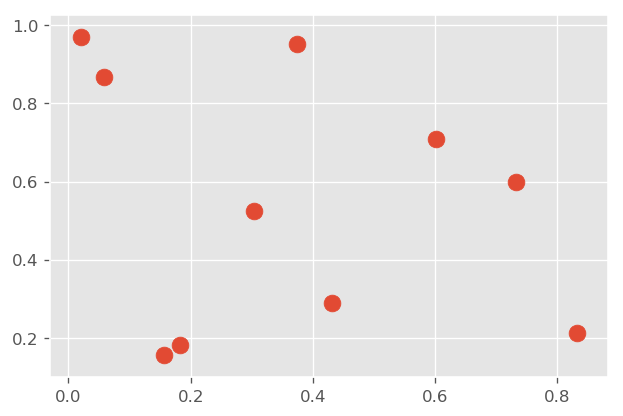
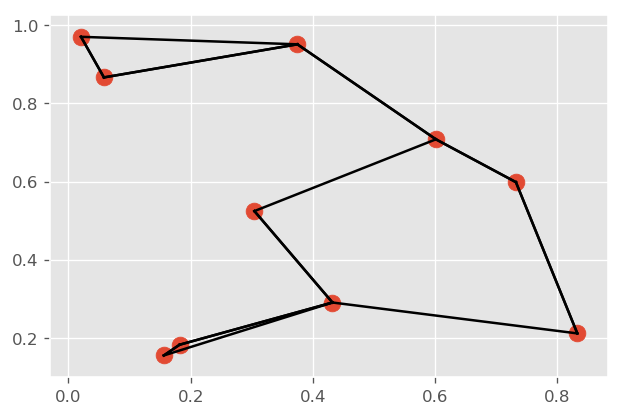
update

diff --git a/pyds/notes.html b/pyds/notes.html
@@ -3,7 +3,7 @@
 "http://www.w3.org/TR/xhtml1/DTD/xhtml1-strict.dtd">
 <html xmlns="http://www.w3.org/1999/xhtml" lang="en" xml:lang="en">
 <head>
-<!-- 2018-04-21 Sat 22:24 -->
+<!-- 2018-04-21 Sat 22:56 -->
 <meta http-equiv="Content-Type" content="text/html;charset=utf-8" />
 <meta name="viewport" content="width=device-width, initial-scale=1" />
 <title>Python Data Science Handbook Notes</title>
@@ -329,43 +329,43 @@ for the JavaScript code in this tag.
 <h2>Table of Contents</h2>
 <div id="text-table-of-contents">
 <ul>
-<li><a href="#org5e1a30f">1. IPython</a>
+<li><a href="#orgf516cee">1. IPython</a>
 <ul>
-<li><a href="#orga19ef22">1.1. Shell commands</a></li>
-<li><a href="#org2b87a21">1.2. Debugger</a></li>
-<li><a href="#org923cd46">1.3. Timing</a></li>
+<li><a href="#orgbf66e8a">1.1. Shell commands</a></li>
+<li><a href="#orgf8206cc">1.2. Debugger</a></li>
+<li><a href="#org095a434">1.3. Timing</a></li>
 </ul>
 </li>
-<li><a href="#org868f76b">2. NumPy</a>
+<li><a href="#org7a011ed">2. NumPy</a>
 <ul>
-<li><a href="#org68ab72f">2.1. Array creating functions</a></li>
-<li><a href="#orgfc00081">2.2. Array attributes</a></li>
-<li><a href="#org9d28bed">2.3. Array slicing</a></li>
-<li><a href="#org078ca38">2.4. Change dimension</a></li>
-<li><a href="#org7d7d9aa">2.5. Merging and splitting</a></li>
-<li><a href="#org4d69105">2.6. Specify output container</a></li>
-<li><a href="#orgf18578c">2.7. reduce() and accumulate()</a></li>
-<li><a href="#org40e301c">2.8. Sort and index sort</a></li>
-<li><a href="#org8cb0155">2.9. Example: k-Nearest Neighbors</a></li>
+<li><a href="#org076f5ef">2.1. Array creating functions</a></li>
+<li><a href="#org7181f49">2.2. Array attributes</a></li>
+<li><a href="#orgc4fee55">2.3. Array slicing</a></li>
+<li><a href="#org0a2b52f">2.4. Change dimension</a></li>
+<li><a href="#orgb30ce69">2.5. Merging and splitting</a></li>
+<li><a href="#orgcdfc836">2.6. Specify output container</a></li>
+<li><a href="#orge743cb4">2.7. reduce() and accumulate()</a></li>
+<li><a href="#org417189a">2.8. Sort and index sort</a></li>
+<li><a href="#orgf2564cf">2.9. Example: k-Nearest Neighbors</a></li>
 </ul>
 </li>
-<li><a href="#orgbaabbf3">3. Org-mode tricks</a>
+<li><a href="#org2cb631e">3. Org-mode tricks</a>
 <ul>
-<li><a href="#org109cfe2">3.1. Inline LaTeX</a></li>
-<li><a href="#org560753b">3.2. Output LaTex from code blocks</a></li>
-<li><a href="#org6330cb4">3.3. Ploting</a></li>
+<li><a href="#org1067474">3.1. Inline LaTeX</a></li>
+<li><a href="#orgf757acd">3.2. Output LaTex from code blocks</a></li>
+<li><a href="#orgbbbf950">3.3. Ploting</a></li>
 </ul>
 </li>
 </ul>
 </div>
 </div>
 
-<div id="outline-container-org5e1a30f" class="outline-2">
-<h2 id="org5e1a30f"><span class="section-number-2">1</span> IPython</h2>
+<div id="outline-container-orgf516cee" class="outline-2">
+<h2 id="orgf516cee"><span class="section-number-2">1</span> IPython</h2>
 <div class="outline-text-2" id="text-1">
 </div>
-<div id="outline-container-orga19ef22" class="outline-3">
-<h3 id="orga19ef22"><span class="section-number-3">1.1</span> Shell commands</h3>
+<div id="outline-container-orgbf66e8a" class="outline-3">
+<h3 id="orgbf66e8a"><span class="section-number-3">1.1</span> Shell commands</h3>
 <div class="outline-text-3" id="text-1-1">
 <p>
 All shell commands can be used with <code>!</code> prefix.  Results can be assigned to
@@ -381,14 +381,14 @@ files
 </div>
 
 <pre class="example">
-['notes.org', 'obipy']
+['notes.html', 'notes.org', 'obipy']
 
 </pre>
 </div>
 </div>
 
-<div id="outline-container-org2b87a21" class="outline-3">
-<h3 id="org2b87a21"><span class="section-number-3">1.2</span> Debugger</h3>
+<div id="outline-container-orgf8206cc" class="outline-3">
+<h3 id="orgf8206cc"><span class="section-number-3">1.2</span> Debugger</h3>
 <div class="outline-text-3" id="text-1-2">
 <p>
 <code>%debug</code> to enter debugger on last exception
@@ -396,8 +396,8 @@ files
 </div>
 </div>
 
-<div id="outline-container-org923cd46" class="outline-3">
-<h3 id="org923cd46"><span class="section-number-3">1.3</span> Timing</h3>
+<div id="outline-container-org095a434" class="outline-3">
+<h3 id="org095a434"><span class="section-number-3">1.3</span> Timing</h3>
 <div class="outline-text-3" id="text-1-3">
 <ul class="org-ul">
 <li><code>%timeit</code> - one line, may run multiple times for short functions</li>
@@ -410,12 +410,12 @@ files
 </div>
 </div>
 
-<div id="outline-container-org868f76b" class="outline-2">
-<h2 id="org868f76b"><span class="section-number-2">2</span> NumPy</h2>
+<div id="outline-container-org7a011ed" class="outline-2">
+<h2 id="org7a011ed"><span class="section-number-2">2</span> NumPy</h2>
 <div class="outline-text-2" id="text-2">
 </div>
-<div id="outline-container-org68ab72f" class="outline-3">
-<h3 id="org68ab72f"><span class="section-number-3">2.1</span> Array creating functions</h3>
+<div id="outline-container-org076f5ef" class="outline-3">
+<h3 id="org076f5ef"><span class="section-number-3">2.1</span> Array creating functions</h3>
 <div class="outline-text-3" id="text-2-1">
 <ul class="org-ul">
 <li><code>np.zeros(10, dtype=int)</code></li>
@@ -431,8 +431,8 @@ files
 </ul>
 </div>
 </div>
-<div id="outline-container-orgfc00081" class="outline-3">
-<h3 id="orgfc00081"><span class="section-number-3">2.2</span> Array attributes</h3>
+<div id="outline-container-org7181f49" class="outline-3">
+<h3 id="org7181f49"><span class="section-number-3">2.2</span> Array attributes</h3>
 <div class="outline-text-3" id="text-2-2">
 <div class="org-src-container">
 <pre class="src src-ipython"><span style="color: #f8f8f2;">x3</span> = np.random.randint(10, size=(3, 4, 5))
@@ -457,8 +457,8 @@ x3 nbytes 240
 </div>
 </div>
 
-<div id="outline-container-org9d28bed" class="outline-3">
-<h3 id="org9d28bed"><span class="section-number-3">2.3</span> Array slicing</h3>
+<div id="outline-container-orgc4fee55" class="outline-3">
+<h3 id="orgc4fee55"><span class="section-number-3">2.3</span> Array slicing</h3>
 <div class="outline-text-3" id="text-2-3">
 <p>
 Slicing returns a <b>view</b> into the original. No copy is made.
@@ -545,8 +545,8 @@ array([[2, 0],
 </div>
 </div>
 
-<div id="outline-container-org078ca38" class="outline-3">
-<h3 id="org078ca38"><span class="section-number-3">2.4</span> Change dimension</h3>
+<div id="outline-container-org0a2b52f" class="outline-3">
+<h3 id="org0a2b52f"><span class="section-number-3">2.4</span> Change dimension</h3>
 <div class="outline-text-3" id="text-2-4">
 <p>
 With <code>.reshape()</code>
@@ -601,8 +601,8 @@ array([[1],
 </div>
 </div>
 
-<div id="outline-container-org7d7d9aa" class="outline-3">
-<h3 id="org7d7d9aa"><span class="section-number-3">2.5</span> Merging and splitting</h3>
+<div id="outline-container-orgb30ce69" class="outline-3">
+<h3 id="orgb30ce69"><span class="section-number-3">2.5</span> Merging and splitting</h3>
 <div class="outline-text-3" id="text-2-5">
 <div class="org-src-container">
 <pre class="src src-ipython">np.concatenate([x2, x2]) <span style="color: #6272a4;"># </span><span style="color: #6272a4;">or np.vstack()</span>
@@ -646,8 +646,8 @@ np.split(x, [3, 5]) <span style="color: #6272a4;"># </span><span style="color: #
 </div>
 </div>
 
-<div id="outline-container-org4d69105" class="outline-3">
-<h3 id="org4d69105"><span class="section-number-3">2.6</span> Specify output container</h3>
+<div id="outline-container-orgcdfc836" class="outline-3">
+<h3 id="orgcdfc836"><span class="section-number-3">2.6</span> Specify output container</h3>
 <div class="outline-text-3" id="text-2-6">
 <p>
 To avoid creating temporaries.
@@ -685,8 +685,8 @@ array([  1.,   0.,   2.,   0.,   4.,   0.,   8.,   0.,  16.,   0.])
 </div>
 </div>
 
-<div id="outline-container-orgf18578c" class="outline-3">
-<h3 id="orgf18578c"><span class="section-number-3">2.7</span> reduce() and accumulate()</h3>
+<div id="outline-container-orge743cb4" class="outline-3">
+<h3 id="orge743cb4"><span class="section-number-3">2.7</span> reduce() and accumulate()</h3>
 <div class="outline-text-3" id="text-2-7">
 <p>
 ufuncs supports <code>reduce()</code> and <code>accumulate()</code>
@@ -723,8 +723,8 @@ array([ 1,  3,  6, 10, 15], dtype=int32)
 </div>
 </div>
 
-<div id="outline-container-org40e301c" class="outline-3">
-<h3 id="org40e301c"><span class="section-number-3">2.8</span> Sort and index sort</h3>
+<div id="outline-container-org417189a" class="outline-3">
+<h3 id="org417189a"><span class="section-number-3">2.8</span> Sort and index sort</h3>
 <div class="outline-text-3" id="text-2-8">
 <p>
 <code>np.sort()</code> returns new copy of sorted array.
@@ -761,38 +761,23 @@ array([1, 0, 3, 2, 4], dtype=int64)
 </div>
 </div>
 
-<div id="outline-container-org8cb0155" class="outline-3">
-<h3 id="org8cb0155"><span class="section-number-3">2.9</span> Example: k-Nearest Neighbors</h3>
+<div id="outline-container-orgf2564cf" class="outline-3">
+<h3 id="orgf2564cf"><span class="section-number-3">2.9</span> Example: k-Nearest Neighbors</h3>
 <div class="outline-text-3" id="text-2-9">
 <p>
 <a href="https://jakevdp.github.io/PythonDataScienceHandbook/02.08-sorting.html">https://jakevdp.github.io/PythonDataScienceHandbook/02.08-sorting.html</a>
 </p>
 
-<p>
-Create 10 random points.
-</p>
+<ul class="org-ul">
+<li>Create 10 random points.</li>
+<li>Compute the distance between each pair of points.</li>
+<li>Take the 2 left most columns.</li>
+</ul>
 
 <div class="org-src-container">
 <pre class="src src-ipython">np.random.seed(42)
 <span style="color: #f8f8f2;">X</span> = np.random.rand(10, 2)
-plt.scatter(X[:, 0], X[:, 1], s=100);
-</pre>
-</div>
-
-
-<div class="figure">
-<p><img src="./obipy/dmv85B.png" alt="dmv85B.png" />
-</p>
-</div>
-
-
-<p>
-Compute the distance between each pair of points.
-Take the 2 left most columns.
-</p>
-
-<div class="org-src-container">
-<pre class="src src-ipython"><span style="color: #f8f8f2;">dist_sq</span> = np.<span style="color: #ffb86c;">sum</span>((X[:, np.newaxis, :] - X[np.newaxis, :, :]) ** 2, axis=-1)
+<span style="color: #f8f8f2;">dist_sq</span> = np.<span style="color: #ffb86c;">sum</span>((X[:, np.newaxis, :] - X[np.newaxis, :, :]) ** 2, axis=-1)
 <span style="color: #f8f8f2;">K</span> = 2
 <span style="color: #f8f8f2;">nearest_partition</span> = np.argpartition(dist_sq, K + 1, axis=1)
 plt.scatter(X[:, 0], X[:, 1], s=100)
@@ -806,7 +791,7 @@ plt.scatter(X[:, 0], X[:, 1], s=100)
 
 
 <div class="figure">
-<p><img src="./obipy/Fmmxx1.png" alt="Fmmxx1.png" />
+<p><img src="./obipy/dmv85B.png" alt="dmv85B.png" />
 </p>
 </div>
 </div>
@@ -814,12 +799,12 @@ plt.scatter(X[:, 0], X[:, 1], s=100)
 </div>
 
 
-<div id="outline-container-orgbaabbf3" class="outline-2">
-<h2 id="orgbaabbf3"><span class="section-number-2">3</span> Org-mode tricks</h2>
+<div id="outline-container-org2cb631e" class="outline-2">
+<h2 id="org2cb631e"><span class="section-number-2">3</span> Org-mode tricks</h2>
 <div class="outline-text-2" id="text-3">
 </div>
-<div id="outline-container-org109cfe2" class="outline-3">
-<h3 id="org109cfe2"><span class="section-number-3">3.1</span> Inline LaTeX</h3>
+<div id="outline-container-org1067474" class="outline-3">
+<h3 id="org1067474"><span class="section-number-3">3.1</span> Inline LaTeX</h3>
 <div class="outline-text-3" id="text-3-1">
 <p>
 Equation:
@@ -849,8 +834,8 @@ Align equations:
 </div>
 </div>
 
-<div id="outline-container-org560753b" class="outline-3">
-<h3 id="org560753b"><span class="section-number-3">3.2</span> Output LaTex from code blocks</h3>
+<div id="outline-container-orgf757acd" class="outline-3">
+<h3 id="orgf757acd"><span class="section-number-3">3.2</span> Output LaTex from code blocks</h3>
 <div class="outline-text-3" id="text-3-2">
 <div class="org-src-container">
 <pre class="src src-ipython"><span style="color: #ff79c6; font-weight: bold;">from</span> sympy <span style="color: #ff79c6; font-weight: bold;">import</span> *
@@ -866,8 +851,8 @@ Align equations:
 </div>
 </div>
 
-<div id="outline-container-org6330cb4" class="outline-3">
-<h3 id="org6330cb4"><span class="section-number-3">3.3</span> Ploting</h3>
+<div id="outline-container-orgbbbf950" class="outline-3">
+<h3 id="orgbbbf950"><span class="section-number-3">3.3</span> Ploting</h3>
 <div class="outline-text-3" id="text-3-3">
 <div class="org-src-container">
 <pre class="src src-ipython"><span style="color: #f8f8f2;">x</span> = np.linspace(0, 3*np.pi, 500)
@@ -887,7 +872,7 @@ plt.show()
 </div>
 </div>
 <div id="postamble" class="status">
-<p class="date">Created: 2018-04-21 Sat 22:24</p>
+<p class="date">Created: 2018-04-21 Sat 22:56</p>
 <p class="validation"><a href="http://validator.w3.org/check?uri=referer">Validate</a></p>
 </div>
 </body>
